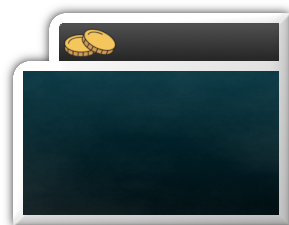
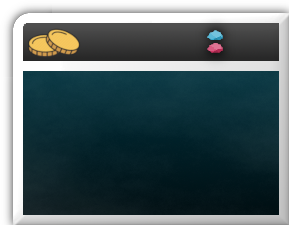
lumen: show gold you would gain next turn
Fixes #51

Changed region(s): [[0.0, 0.0311, 0.4048, 0.3422], [0.7163, 0.1244, 0.7785, 0.2489]]

diff --git a/client/client-state.js b/client/client-state.js
@@ -406,6 +406,31 @@ module.exports = class ClientState {
             }
         }, INTERNAL_TICK_INTERVAL);
     }
+    
+    getHarvesterGoldValues() {
+        const gem = getBaseObject('Gem Harvester');
+        const ether = getBaseObject('Ether Harvester');
+        return { gem: gem.custom.value, ether: ether.custom.value };
+    }
+
+    getHarvesterCount() {
+        if (!this.gameState) return { ether: 0, gem: 0 };
+
+        const result = { ether: 0, gem: 0};
+        for (let i = 0; i < this.gameState.structures.length; i++) {
+            const structure = this.gameState.structures[i];
+            if (structure.name === 'Ether Harvester' &&
+                this.gameState.isAllowedBuilding(structure.position.x,
+                    structure.position.y, this.player)) {
+                result.ether += 1;
+            }
+            else if (structure.name === 'Gem Harvester' &&
+                structure.owner === this.player) {
+                result.gem += 1;
+            }
+        }
+        return result;
+    }
 
     getEnemyOverlay(player) {
         if (player === undefined) {

diff --git a/client/canvas/ui.js b/client/canvas/ui.js
@@ -124,7 +124,18 @@ module.exports = class UICanvas {
         this.context.fillStyle = 'white';
         this.context.font = 'bold 32px Prompt';
         const gold = this.state.hasForfeited() ? "FORFEIT" : this.state.getGold();
-        this.context.fillText(gold, screenWidth - 170, screenHeight - 181);
+        this.context.fillText(gold, screenWidth - 205, screenHeight - 179);
+
+        const count = this.state.getHarvesterCount();
+        const values = this.state.getHarvesterGoldValues();
+
+        this.context.fillText(gold, screenWidth - 205, screenHeight - 179);
+
+        this.context.font = '15px Prompt';
+        this.context.fillText(`+${200 + (count.gem * values.gem + count.ether * values.ether)}`,
+            screenWidth - 60, screenHeight - 182);
+        
+    
         this.context.textBaseline = 'alphabetic';
         
         // Show Timer

diff --git a/shared/triggers.js b/shared/triggers.js
@@ -50,7 +50,7 @@ const triggers = {
         onPlanningStart(state) {
             // Gain Passive Gold Per Turn
             state.players[this.owner].gold += 200;
-            if (state.clientState) {
+            if (state.clientState && state.clientState.player === this.owner) {
                 state.clientState.globalAnimationManager.addAnimation(
                     new PopupTextAnimation("+200", Constants.YELLOW_CHAT_COLOR,
                         this.position)

diff --git a/client/canvas/map.js b/client/canvas/map.js
@@ -250,9 +250,6 @@ module.exports = class MapCanvas {
             // Consider: unit vs structure, enemy vs mine, currently building vs not!
             let name = selectedObject.name;
 
-            if (!this.objectIsMine(selectedObject) && !this.objectIsNeutral(selectedObject)) {
-                name = 'Enemy ' + name;
-            }
             this.drawText(name, 'black', 16, 88,
                 screenHeight - bottomLeft.height + 43, 'center', 'bold');
 

diff --git a/shared/game-state.js b/shared/game-state.js
@@ -26,7 +26,7 @@ class PlayerState {
 
         this.gold = Constants.STARTING_GOLD;
         this.commandBase = undefined;
-
+        
         this.stats = new Proxy({}, {
             get: (target, name) => name in target ? target[name] : 0
         });
